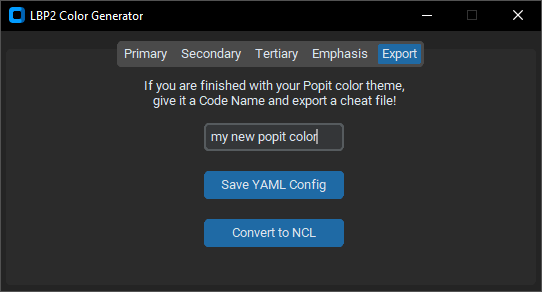
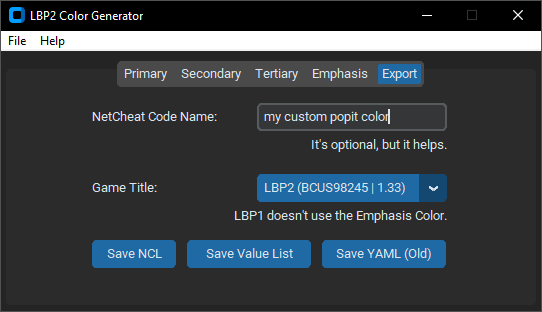
Updated GUI Screenshots

diff --git a/object_scrap/old_export_tab.py b/object_scrap/old_export_tab.py
@@ -1,41 +1,41 @@
-        # Export Tab UI
-        export_tab = ctk.CTkFrame(self.tab('Export'))
-        export_text_preview = ctk.CTkLabel(
-            export_tab, 
-            text = f'If you are finished with your Popit color theme,\ngive it a Code Name and export a cheat file!', 
-            width = 525
-            )
+# Export Tab UI
+export_tab = ctk.CTkFrame(self.tab('Export'))
+export_text_preview = ctk.CTkLabel(
+export_tab, 
+text = f'If you are finished with your Popit color theme,\ngive it a Code Name and export a cheat file!', 
+width = 525
+)
 
-        code_caption = ctk.CTkEntry(export_tab, placeholder_text = 'Code Name')
+code_caption = ctk.CTkEntry(export_tab, placeholder_text = 'Code Name')
 
-        save_yaml_button = ctk.CTkButton(
-            export_tab, 
-            text = 'Save YAML', 
-            command = lambda: external_objects.new_export_yaml(
-                code_caption.get(),
-                self.primary_colortab.color_preview.cget('background')[1:],
-                self.secondary_colortab.color_preview.cget('background')[1:],
-                self.tertiary_colortab.color_preview.cget('background')[1:],
-                self.emphasis_colortab.color_preview.cget('background')[1:]
-                )
-            )
+save_yaml_button = ctk.CTkButton(
+export_tab, 
+text = 'Save YAML', 
+command = lambda: external_objects.new_export_yaml(
+    code_caption.get(),
+    self.primary_colortab.color_preview.cget('background')[1:],
+    self.secondary_colortab.color_preview.cget('background')[1:],
+    self.tertiary_colortab.color_preview.cget('background')[1:],
+    self.emphasis_colortab.color_preview.cget('background')[1:]
+    )
+)
 
-        save_ncl_button = ctk.CTkButton(
-            export_tab, 
-            text = 'Save NCL', 
-            command = lambda: external_objects.new_export_ncl(
-                code_caption.get(),
-                self.primary_colortab.color_preview.cget('background')[1:],
-                self.secondary_colortab.color_preview.cget('background')[1:],
-                self.tertiary_colortab.color_preview.cget('background')[1:],
-                self.emphasis_colortab.color_preview.cget('background')[1:]
-                )
-            )
+save_ncl_button = ctk.CTkButton(
+export_tab, 
+text = 'Save NCL', 
+command = lambda: external_objects.new_export_ncl(
+    code_caption.get(),
+    self.primary_colortab.color_preview.cget('background')[1:],
+    self.secondary_colortab.color_preview.cget('background')[1:],
+    self.tertiary_colortab.color_preview.cget('background')[1:],
+    self.emphasis_colortab.color_preview.cget('background')[1:]
+    )
+)
 
-        export_text_preview.grid(row = 0, pady = 5)
-        code_caption.grid(row = 1, pady = 10)
-        save_yaml_button.grid(row = 2, pady = 10)
-        save_ncl_button.grid(row = 3, pady = 10)
+export_text_preview.grid(row = 0, pady = 5)
+code_caption.grid(row = 1, pady = 10)
+save_yaml_button.grid(row = 2, pady = 10)
+save_ncl_button.grid(row = 3, pady = 10)
 
-        
-        export_tab.grid(row = 0, column = 0)
+
+export_tab.grid(row = 0, column = 0)

diff --git a/main.py b/main.py
@@ -322,7 +322,7 @@ class ColorTabList(ctk.CTkTabview):
 
         game_title_note = ctk.CTkLabel(export_tab, text = 'LBP1 doesn\'t use the Emphasis Color.')
 
-        export_button_frame = ctk.CTkFrame(export_tab, fg_color = '#2b2b2b')
+        export_button_frame = ctk.CTkFrame(export_tab, fg_color = 'transparent')
 
         new_export_ncl_button = ctk.CTkButton(
             export_button_frame, 
